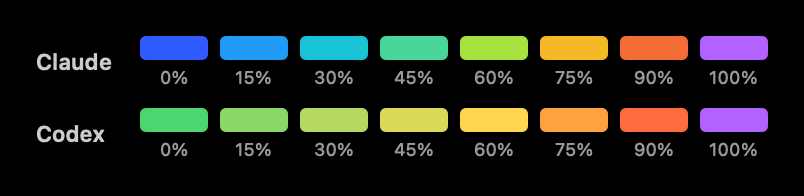
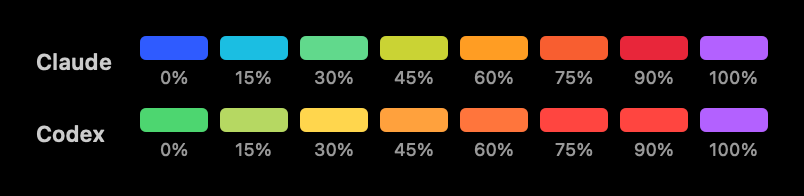
Show the reset styles and stricter colors in the README
New usage-reset-styles image with one closed notch per style, pace ticks
on the closed-notch image, the stricter color scales, and the settings
crop with the Time Until Reset picker.

Changed region(s): [[0.2488, 0.551, 0.8706, 0.6735], [0.2488, 0.1837, 0.8706, 0.3061]]

diff --git a/scripts/readme-glyphs/main.swift b/scripts/readme-glyphs/main.swift
@@ -2,21 +2,23 @@ import SwiftUI
 import AppKit
 let notchW: CGFloat = 185, h: CGFloat = 32
 let bg = LinearGradient(colors: [Color(red: 0.10, green: 0.12, blue: 0.20), Color(red: 0.20, green: 0.14, blue: 0.24)], startPoint: .topLeading, endPoint: .bottomTrailing)
-func bars(_ p: [Double]) -> [UsageBar] {
-    [UsageBar(id: "5h", percent: p[0], scale: .claude), UsageBar(id: "Week", percent: p[1], scale: .claude),
-     UsageBar(id: "Model", percent: p[2], scale: .claude), UsageBar(id: "Codex", percent: p[3], scale: .codex)]
+/// Percents used, and how far each window has run (5-hour, week, model week, Codex week).
+func bars(_ p: [Double], elapsed e: [Double] = [0.45, 0.6, 0.6, 0.5]) -> [UsageBar] {
+    [UsageBar(id: "5h", percent: p[0], scale: .claude, elapsed: e[0]), UsageBar(id: "Week", percent: p[1], scale: .claude, elapsed: e[1]),
+     UsageBar(id: "Model", percent: p[2], scale: .claude, elapsed: e[2]), UsageBar(id: "Codex", percent: p[3], scale: .codex, elapsed: e[3])]
 }
 struct Closed: View {
     let b: [UsageBar]; let muted: Bool; var level = 72; var charging = false; var net: GlyphNetworkState = .wifi(.strong); var vol = 0.6
+    var resetStyle: UsageResetStyle = .paceTick
     var body: some View {
         let right = CompactBatteryView.wingWidth(closedHeight: h)
-        let left = CompactBatteryView.leftWingWidth(barCount: b.count, micMuted: muted, closedHeight: h)
+        let left = CompactBatteryView.leftWingWidth(barCount: b.count, resetStyle: resetStyle, micMuted: muted, closedHeight: h)
         let size = CGSize(width: notchW + right + left, height: h)
         let off = (right - left) / 2
         ZStack(alignment: .top) {
             UnevenRoundedRectangle(bottomLeadingRadius: 9, bottomTrailingRadius: 9).fill(.black)
                 .frame(width: size.width, height: h).offset(x: off)
-            CompactBatteryView(batteryLevel: level, isCharging: charging, lowBatteryThreshold: 20, network: net, volume: vol, isVolumeMuted: false, size: size, horizontalOffset: off, hoverOffsetY: 0, micMuted: muted, usageBars: b)
+            CompactBatteryView(batteryLevel: level, isCharging: charging, lowBatteryThreshold: 20, network: net, volume: vol, isVolumeMuted: false, size: size, horizontalOffset: off, hoverOffsetY: 0, micMuted: muted, usageBars: b, usageResetStyle: resetStyle)
         }.frame(width: 470, height: h, alignment: .top)
     }
 }
@@ -30,8 +32,8 @@ func save<V: View>(_ v: V, _ name: String) {
 }
 // 1. Closed notch
 save(VStack(spacing: 18) {
-    VStack(spacing: 6) { Closed(b: bars([18, 46, 9, 31]), muted: false); Caption(t: "Usage bars on the left, status ring on the right") }
-    VStack(spacing: 6) { Closed(b: bars([62, 88, 100, 74]), muted: true); Caption(t: "Hotter colors as limits fill, purple at the limit, muted mic beside the camera") }
+    VStack(spacing: 6) { Closed(b: bars([18, 46, 9, 31]), muted: false); Caption(t: "Usage bars on the left, status ring on the right; white ticks mark an even pace") }
+    VStack(spacing: 6) { Closed(b: bars([62, 88, 100, 74], elapsed: [0.5, 0.75, 0.9, 0.6]), muted: true); Caption(t: "Hotter colors as limits fill, purple at the limit, muted mic beside the camera") }
     VStack(spacing: 6) {
         ZStack(alignment: .top) {
             let wing = CompactBatteryView.chargingWingWidth(closedHeight: h)
@@ -41,6 +43,17 @@ save(VStack(spacing: 18) {
         Caption(t: "Charging pop when power connects")
     }
 }.padding(.vertical, 22).frame(width: 520).background(bg), "closed-notch.png")
+// 1b. Time until reset, one closed notch per style
+save(VStack(spacing: 18) {
+    ForEach(UsageResetStyle.allCases) { style in
+        VStack(spacing: 6) {
+            Closed(b: bars([55, 20, 70, 35], elapsed: [0.3, 0.6, 0.55, 0.5]), muted: false, resetStyle: style)
+            Caption(t: style == .paceTick ? "Pace tick (default): color below the line is to spare"
+                : style == .timeRail ? "Time rail: the thin line beside each bar is the time left"
+                : "Forecast: the shaded color is what the current rate uses before the reset")
+        }
+    }
+}.padding(.vertical, 22).frame(width: 520).background(bg), "usage-reset-styles.png")
 // 2. Ring states
 func ring(_ t: String, _ level: Int, _ charging: Bool, _ net: GlyphNetworkState, _ vol: Double) -> some View {
     VStack(spacing: 8) {

diff --git a/README.md b/README.md
@@ -25,7 +25,7 @@ BetterNotch is a fork of [Notchly](https://github.com/Notchly/Notchly) (MIT), re
 The closed notch stays out of the way. The camera sits in the middle, with a small wing on each side:
 
 - **Right wing, the status ring.** One glyph shows three things. The outer arc is your battery level. The center shows your network: Wi-Fi bars, an Ethernet plug, or offline. The four dots along the bottom show output volume.
-- **Left wing, usage bars.** One short bar for each subscription limit: Claude's 5-hour, weekly and per-model limits, plus Codex's weekly limit and, on plans that have one, its 5-hour limit. The colored part is what's left, so a fresh limit is a full bar, and it shrinks and warms in color as you use it. Each bar also shows how far its window has run until the limit resets: a white pace tick where the color would end at an even pace (the default), a thin time rail beside the bar, or a forecast that shades the color you're on course to use before the reset. They refresh every 5 minutes. **Settings → AI Usage** switches between two bar styles and the three reset styles.
+- **Left wing, usage bars.** One short bar for each subscription limit: Claude's 5-hour, weekly and per-model limits, plus Codex's weekly limit and, on plans that have one, its 5-hour limit. The colored part is what's left, so a fresh limit is a full bar, and it shrinks and warms in color as you use it. A white tick on each bar marks an even pace to its reset (more below). They refresh every 5 minutes.
 - **Muted mic.** A red slashed mic appears next to the camera whenever your microphone is muted.
 
 Each glyph sits as far from the camera as from the notch's edge. If yours sits too close to the camera or too far from it, **Settings → General → Space Beside Camera** moves both sides in or out, with a Reset button to go back to the default.
@@ -44,13 +44,19 @@ While music plays, the album artwork takes the left wing, spaced like the usage 
   <img src="docs/images/usage-colors.png" width="460" alt="Usage color scales for Claude and Codex">
 </p>
 
-Colors follow how much is used. Claude's run cold to hot, from blue through cyan, green and amber to red. Codex's run green to red. Any bar at its limit is solid purple.
+Colors follow how much is used, warming from about halfway. Claude's run cold to hot, from blue through cyan, green, amber and orange to red at 85%. Codex's run green through yellow and orange to red at 75%. Any bar at its limit is solid purple.
 
 <p align="center">
-  <img src="docs/images/usage-bar-styles.png" width="560" alt="The two usage bar styles in settings: Color hangs, where what's left is a colored capsule, and Gray rises, where what's used is a gray capsule">
+  <img src="docs/images/usage-reset-styles.png" width="520" alt="The three ways a usage bar shows the time until its limit resets: a white pace tick, a thin time rail beside each bar, and a forecast that shades the color you're on course to use">
 </p>
 
-Pick how the bars are drawn in **Settings → AI Usage**: what's left as a colored capsule hanging from the top (the default), or what's used as a gray capsule rising from the bottom. The same page chooses which limits get a bar beside the camera (5-hour, weekly, Fable weekly, Codex 5-hour, Codex weekly); the Usage tab always shows them all.
+Each bar also shows how far its 5-hour or weekly window has run until the limit resets. By default a white pace tick marks where the color would end if you used the limit evenly, so color below the tick is to spare and a bar whose color ends above it is running ahead. A time rail beside each bar shrinks as the reset nears instead, and a forecast shades the color your current rate would use up before the reset.
+
+<p align="center">
+  <img src="docs/images/usage-bar-styles.png" width="560" alt="Usage bar settings: Color hangs or Gray rises for the bars, and Pace tick, Time rail or Forecast for the time until reset">
+</p>
+
+Pick how the bars are drawn in **Settings → AI Usage**: what's left as a colored capsule hanging from the top (the default), or what's used as a gray capsule rising from the bottom, and which of the three reset styles to use. The same page chooses which limits get a bar beside the camera (5-hour, weekly, Fable weekly, Codex 5-hour, Codex weekly); the Usage tab always shows them all.
 
 ## Opened notch
 
